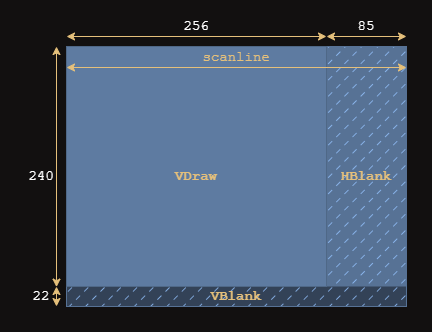
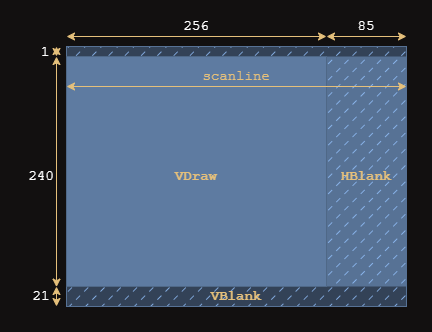
Talking about scanline -1 and adding tests

diff --git a/src/data/levels/$tests/ppu.js b/src/data/levels/$tests/ppu.js
@@ -1,0 +1,76 @@
+const { evaluate, byte } = $;
+
+let mainModule, Console;
+beforeEach(async () => {
+	mainModule = await evaluate();
+});
+
+// 5b.1 New PPU
+
+it("`/code/index.js` exports an object containing the `PPU` class", () => {
+	expect(mainModule.default).to.be.an("object");
+	mainModule.default.should.include.key("PPU");
+	expect(mainModule.default.PPU).to.be.a.class;
+})({
+	locales: {
+		es: "`/code/index.js` exporta un objeto que contiene la clase `PPU`",
+	},
+	use: ({ id }, book) => id >= book.getId("5b.1"),
+});
+
+it("receives and saves the `cpu` property", () => {
+	const PPU = mainModule.default.PPU;
+	const cpu = {};
+	const ppu = new PPU(cpu);
+	ppu.should.include.key("cpu");
+	ppu.cpu.should.equal(cpu);
+})({
+	locales: {
+		es: "recibe y guarda una propiedad `cpu`",
+	},
+	use: ({ id }, book) => id >= book.getId("5b.1"),
+});
+
+it("initializates the counters", () => {
+	const PPU = mainModule.default.PPU;
+	const ppu = new PPU({});
+
+	ppu.should.include.key("cycle");
+	ppu.should.include.key("scanline");
+	ppu.should.include.key("frame");
+
+	ppu.cycle.should.equal(0);
+	ppu.scanline.should.equal(-1);
+	ppu.frame.should.equal(0);
+})({
+	locales: {
+		es: "inicializa los contadores",
+	},
+	use: ({ id }, book) => id >= book.getId("5b.1"),
+});
+
+it("has a `step` method that increments the counters", () => {
+	const PPU = mainModule.default.PPU;
+	const ppu = new PPU({});
+	ppu.should.respondTo("step");
+
+	for (let frame = 0; frame < 1; frame++) {
+		for (let scanline = -1; scanline < 261; scanline++) {
+			for (let cycle = 0; cycle < 341; cycle++) {
+				ppu.frame.should.equal(frame);
+				ppu.scanline.should.equal(scanline);
+				ppu.cycle.should.equal(cycle);
+				ppu.step();
+			}
+		}
+	}
+
+	ppu.frame.should.equal(1);
+	ppu.scanline.should.equal(-1);
+	ppu.cycle.should.equal(0);
+})({
+	locales: {
+		es: "tiene un método `step` que incrementa los contadores",
+	},
+	use: ({ id }, book) => id >= book.getId("5b.1"),
+});

diff --git a/src/data/levels/$tests/cpu.js b/src/data/levels/$tests/cpu.js
@@ -476,6 +476,7 @@ it("defines a list of 151 `operations`", () => {
 it("can run 4 simple operations, updating all counters, and calling a `logger` function", () => {
 	// NOP ; LDA #$05 ; STA $0201 ; LDX $0201
 	const cpu = newCPU([0xea, 0xa9, 0x05, 0x8d, 0x01, 0x02, 0xae, 0x01, 0x02]);
+	cpu.should.respondTo("step");
 	let cycles;
 	cpu.pc.setValue(0x8000);
 	cpu.cycle = 7;
